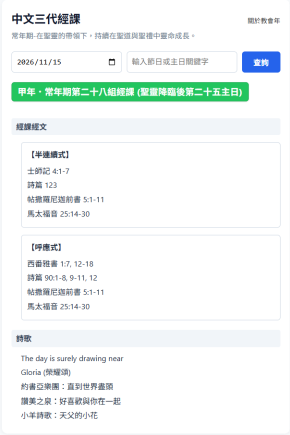
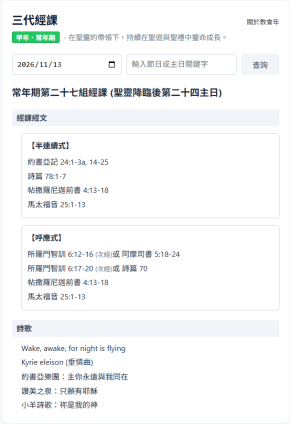
使得有加入手機桌面的機制並且做個可愛的圖示

diff --git a/index.html b/index.html
@@ -4,13 +4,17 @@
 <head>
     <meta charset="UTF-8">
     <meta name="viewport" content="width=device-width, initial-scale=1.0">
-    <meta property="og:title" content="中文三代經課系統" />
-    <meta property="og:description" content="提供每週 RCL 三代經課經文，並自動配對推薦古典聖詩與現代詩歌。" />
+    <meta property="og:title" content="三代經課" />
+    <meta property="og:description" content="提供每週三代經課經文，並推薦傳統聖詩與現代詩歌。" />
     <meta property="og:type" content="website" />
     <meta property="og:url" content="https://jameshhsu-source.github.io/Lect_Cht_WebPage/" />
     <meta property="og:image" content="https://jameshhsu-source.github.io/Lect_Cht_WebPage/og-image.png" />
-    <meta property="og:site_name" content="中文三代經課" />
-    <title>中文三代經課</title>
+    <meta property="og:site_name" content="三代經課" />
+    <title>三代經課</title>
+    <link rel="icon" type="image/png" href="favicon.png">
+	<link rel="manifest" href="manifest.json">
+    <meta name="theme-color" content="#2563eb">
+    <link rel="apple-touch-icon" href="icon-192.png">
     <style>
         body { font-family: -apple-system, BlinkMacSystemFont, "Segoe UI", Roboto, sans-serif; max-width: 600px; margin: 20px auto; padding: 0 15px; line-height: 1.6; background-color: #f8fafc; color: #1e293b; }
         .card { background: white; padding: 20px; border-radius: 12px; box-shadow: 0 2px 10px rgba(0,0,0,0.05); }
@@ -49,7 +53,7 @@
 
 <div class="card">
     <div class="header-area">
-        <h2>中文三代經課</h2>
+        <h2>三代經課</h2>
         <a href="about_church_year.html" class="about-link">關於教會年</a>
     </div>
     
@@ -68,6 +72,15 @@
 <script src="engine.js"></script>
 
 <script>
+	// --- 新增這段來啟動離線功能 ---
+    if ('serviceWorker' in navigator) {
+        window.addEventListener('load', () => {
+            navigator.serviceWorker.register('service-worker.js')
+                .then(reg => console.log('ServiceWorker 註冊成功'))
+                .catch(err => console.log('ServiceWorker 註冊失敗: ', err));
+        });
+    }
+    // ----------------------------
     const seasonZhMap = {
         "Advent": "將臨期", "Christmas": "聖誕期", "Epiphany": "顯現期",
         "Lent": "預苦期", "Holy Week": "聖週", "Easter": "復活期",

diff --git a/service-worker.js b/service-worker.js
@@ -1,0 +1,27 @@
+const CACHE_NAME = 'lectionary-cache-v1';
+const urlsToCache = [
+  './',
+  './index.html',
+  './engine.js',
+  './data.js',
+  './about_church_year.html'
+];
+
+// 安裝時，將核心檔案抓進快取
+self.addEventListener('install', event => {
+  event.waitUntil(
+    caches.open(CACHE_NAME)
+      .then(cache => cache.addAll(urlsToCache))
+  );
+});
+
+// 攔截網路請求，若沒網路就給快取的檔案
+self.addEventListener('fetch', event => {
+  event.respondWith(
+    caches.match(event.request)
+      .then(response => {
+        // 有快取就給快取，沒快取就透過網路抓
+        return response || fetch(event.request);
+      })
+  );
+});
